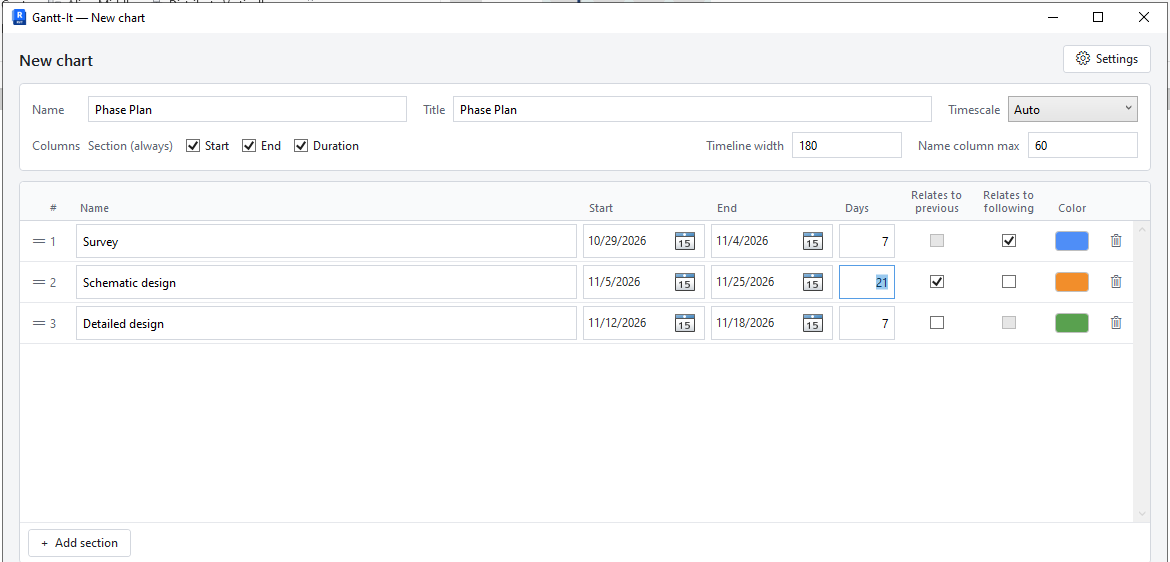
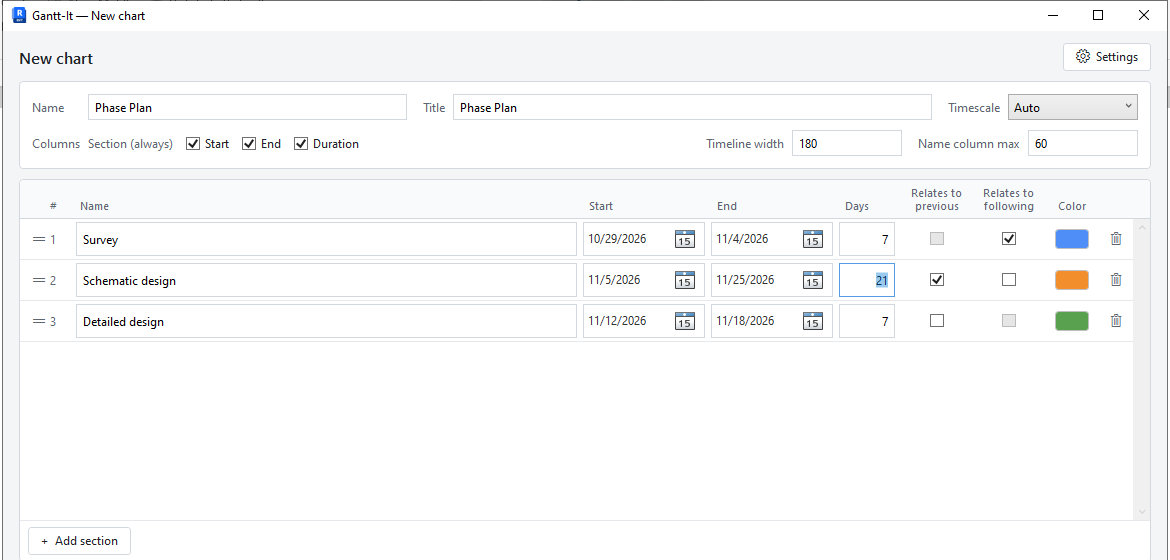
docs: review follow-ups for README and user guide
Quick start closes Gantt-It before placing on a sheet; sheet image recropped
without the debug note; ribbon strip trimmed from home/editor images; install
steps in the order Windows shows them; UI labels quoted as shown; TODOs for
images that still show test names.

diff --git a/docs/USER-GUIDE.md b/docs/USER-GUIDE.md
@@ -37,7 +37,7 @@ Each chart card has three buttons:
 - **Open view** closes Gantt-It and opens the chart's legend view in Revit.
 - **Delete** deletes the chart (see [Deleting a chart](#deleting-a-chart)).
 
-While Gantt-It is open, Revit waits for it. Close Gantt-It (with **×** or Esc) to go back to working in Revit.
+While Gantt-It is open you can't work in Revit. Close it (**×** or Esc) to get back to your model.
 
 ## Settings
 
@@ -54,13 +54,13 @@ The styles are the ones already in your project. To get a different look, create
 | Setting | What it changes on the chart |
 |---|---|
 | Title text style | The chart's title. |
-| Header text style | The column headings and the dates along the top of the timeline. |
+| Header text style | The column headings and the labels along the top of the timeline. |
 | Body text style | Section names, dates and number of days. |
 | Chart line style | The lines between rows and the grid lines of the timeline. |
 | Header line style | The lines under the headings and the outer border. |
 | Date format | How dates are written, for example `2026-12-31`, `12/31/2026`, `31/12/2026` or `31.12.2026`. Choose **Custom pattern…** to type your own, such as `d MMM yyyy`. A sample shows the result. |
 | Cell padding | The space between the text and the lines around it, in your project's units. |
-| Chart language | The language of the words drawn on the chart. See [Languages](#languages-and-dark-mode). |
+| Chart language | The language of the words drawn on the chart. See [Languages](#languages). |
 
 Two more options sit at the bottom:
 
@@ -77,7 +77,7 @@ Click **New chart** on the Home screen. The editor opens with one section to sta
 
 ![The chart editor with three sections, link tick boxes and colours](images/editor.png)
 
-<!-- TODO(screenshot): Full chart editor from the current build (dates in the chart's date format, e.g. 2026-10-29, and the live preview at the bottom), e.g. the "Phase Plan" chart: Survey, Schematic design, Detailed design, with row 1 "Relates to following" ticked. Light theme. Replace images/editor.png. -->
+<!-- TODO(screenshot): Full chart editor from the current build (dates in the chart's date format, e.g. 2026-10-29, and the live preview at the bottom), e.g. the "Phase Plan" chart: Survey, Schematic design, Detailed design, with row 1 "Relates to following" ticked. Light theme. Replace images/editor.png (also used by README step 3). -->
 
 ### Name, title and timescale
 
@@ -104,7 +104,7 @@ Click **New chart** on the Home screen. The editor opens with one section to sta
 
 Each row is one bar on the chart.
 
-1. Click **+ Add section** to add a row. It starts the day after the last section ends, lasts 7 days, and gets the next colour.
+1. Click **Add section** to add a row. It starts the day after the last section ends, lasts 7 days, and gets the next colour.
 2. Type the section's **Name**.
 3. Set its dates in any of three ways:
    - change **Start** to move the section; it keeps its length;
@@ -142,10 +142,10 @@ If something needs fixing, such as an empty name or an end date before the start
 
 ## Colours
 
-Click a section's colour swatch to choose its colour. The colour window offers:
+Click the swatch in a section's **Color** column. The **Section color** window opens. It offers:
 
 - **Palette**: twelve ready colours. New sections take them in turn.
-- **Recent**: colours you chose recently, kept until you close Revit.
+- **Recent**: colours you chose recently, kept until you close Revit (appears after your first pick).
 - **Hex**: type a colour code such as `#4F8EF7` and click **Apply**.
 - **Pick from screen**: the eyedropper button next to **Apply** (see below).
 - **More…**: opens the Windows colour window, with the full colour range.
@@ -159,7 +159,7 @@ Clicking a colour applies it and closes the window.
 Use the eyedropper to match a colour you can already see, such as a colour used on your plans.
 
 1. Before opening Gantt-It, set up Revit so the colour you want is visible on screen. Revit can't be moved or zoomed while Gantt-It is open.
-2. Open the colour window and click the eyedropper button.
+2. Open the **Section color** window and click the eyedropper button.
 3. Gantt-It steps out of the way. A magnifier follows the pointer and shows the colour code under it.
 4. Move to the colour with the mouse. For fine positioning, use the arrow keys (hold Shift to move faster).
 5. Click to pick the colour. Enter or Space also pick it.
@@ -186,6 +186,8 @@ A legend can go on as many sheets as you like, so you can put the same chart on 
 
 ![A sheet with the Gantt-It chart placed on it next to the title block](images/chart-on-sheet.png)
 
+<!-- TODO(screenshot): Recapture without the test names "GI Months" (viewport title) and "GI Self-Test Sheet" (title block), e.g. a sheet named "A101 - Programme" with the chart "North wing programme". Replace images/chart-on-sheet.png (also used by README step 5). -->
+
 The chart is drawn at a scale of 1:1, so the sizes you set are its size on paper.
 
 ## Updating a chart
@@ -210,6 +212,8 @@ Gantt-It asks you to confirm. If the chart is on sheets, it lists them: deleting
 
 ![The Delete chart window listing the two sheets the chart is placed on](images/delete-confirm.png)
 
+<!-- TODO(screenshot): Recapture with real-looking sheet names instead of the test names "A101 - GI A8 Sheet 1" / "A102 - GI A8 Sheet 2". Replace images/delete-confirm.png. -->
+
 Click **Delete** to delete the chart and its legend view, or **Cancel** to keep it.
 
 ## When the project has no legend
@@ -226,7 +230,7 @@ To fix it:
 2. In Revit, choose **View › Legends › Legend**. Any name and scale will do.
 3. Open Gantt-It again. Your chart is back in the editor, with a note saying it was restored. Click **Generate**.
 
-Your chart is kept until you close Revit.
+Your chart is kept until you close the project or Revit.
 
 You only need to do this once per project. After that, Gantt-It can copy any legend, including its own charts.
 
@@ -237,7 +241,7 @@ You only need to do this once per project. After that, Gantt-It can copy any leg
 Gantt-It speaks English, French, Spanish and German.
 
 - **Gantt-It's windows** use Revit's language. In French, Spanish or German Revit they appear in that language; in any other language they appear in English.
-- **The chart** uses the **Chart language** chosen in Settings. It sets the words drawn on the chart: column headings, month and quarter names, and the name a new chart starts with.
+- **The chart** uses the **Chart language** chosen in Settings. It sets the words drawn on the chart: column headings, month and quarter names, and the default names of new charts and sections.
 
 The chart language belongs to the project. It starts as your Revit language when the project's settings are first saved, and then stays put. So a chart doesn't change language when a colleague with a different Revit language updates it.
 
@@ -257,13 +261,13 @@ The chart preview stays white, like paper, so you see the colours as they will p
 
 **Revit asks to load Gantt-It after installing and after each upgrade.** Gantt-It is not digitally signed yet, so Revit asks each time a new version is installed. Choose **Always Load**.
 
-**A chart copied with Revit's Duplicate becomes a plain legend.** It no longer appears in Gantt-It, and Gantt-It never changes it. To make a variant of a chart, click **New chart** and build it in Gantt-It.
+**A chart copied with Revit's Duplicate becomes a plain legend.** The copy doesn't appear in Gantt-It and Gantt-It never changes it; the original chart is unaffected. To make a variant of a chart, click **New chart** and build it in Gantt-It.
 
 **A chart made with a newer version of Gantt-It is read-only.** Its card says so, and **Edit** and **Delete** are off. Install the newer Gantt-It to change it. You can still open it, or delete its legend view by hand in Revit.
 
 **In a shared (workshared) project, someone else may be editing the chart or the settings.** Gantt-It then tells you who, and changes nothing. Ask them to synchronise and give up the element, then try again.
 
-**Gantt-It tidies up its own fill types.** Each bar colour uses a fill type named `Gantt-It Fill #RRGGBB`. When a colour is no longer used anywhere in the project, Gantt-It removes its fill type. A fill type still in use is always kept.
+**Gantt-It tidies up its own fill types.** Each bar colour uses a fill type named like `Gantt-It Fill #4F8EF7`. When a colour is no longer used anywhere in the project, Gantt-It removes its fill type. A fill type still in use is always kept.
 
 **Every action can be undone.** Generate, Update, Delete, saving Settings and Regenerate all charts are each one step in Revit's Undo list, named after the action (for example "Gantt-It: Update Project Schedule"). Close Gantt-It, then use Revit's **Undo**.
 

diff --git a/README.md b/README.md
@@ -21,13 +21,12 @@
 ## Install
 
 1. Download `GanttIt-<version>.msi` from the [latest release](https://github.com/jedbjorn/gantt-it/releases/latest).
-2. Close Revit, then run the file. One installer covers Revit 2026 and 2027. It installs for you only and needs no administrator rights.
-3. If Windows says "Windows protected your PC", choose **More info**, then **Run anyway**.
-4. Start Revit. Revit asks whether to load Gantt-It: choose **Always Load**.
+2. Close Revit, then run the file.
+3. If Windows says "Windows protected your PC", choose **More info**, then **Run anyway**. Windows asks this because Gantt-It is not digitally signed yet. That is expected.
+4. Accept the licence and click **Install**. One installer covers Revit 2026 and 2027. It installs for you only and needs no administrator rights.
+5. Start Revit. Revit asks whether to load Gantt-It, for the same reason: choose **Always Load**.
 
 Gantt-It now appears on the **Add-Ins** tab.
-
-Windows and Revit ask these questions because Gantt-It is not digitally signed yet. That is expected.
 
 **Upgrade:** close Revit, then run the newer installer. It replaces the old version. Revit asks again whether to load Gantt-It on the next start: choose **Always Load** again.
 
@@ -36,7 +35,7 @@ Windows and Revit ask these questions because Gantt-It is not digitally signed y
 - Windows 11: **Settings › Apps › Installed apps**, find **Gantt-It**, open its **⋯** menu and choose **Uninstall**.
 - Windows 10: **Settings › Apps › Apps & features**, select **Gantt-It** and choose **Uninstall**.
 
-Charts you already made stay in your projects as ordinary legend views.
+Charts you already made stay in your projects as ordinary legend views. Reinstall Gantt-It to edit them again.
 
 ## Quick start
 
@@ -50,9 +49,9 @@ Charts you already made stay in your projects as ordinary legend views.
    ![The chart editor: name, title and timescale at the top, then three sections with dates, days, link tick boxes and colour swatches](docs/images/editor.png)
 
 4. Click **Generate**. Gantt-It creates a legend view holding your chart.
-5. Open a sheet and drag the chart from **Legends** in the Project Browser onto it, as you would any legend.
+5. Close Gantt-It. Open a sheet and drag the chart from **Legends** in the Project Browser onto it, as you would any legend.
 
-   ![A sheet with the Gantt-It chart placed on it next to the title block](docs/images/chart-on-sheet.png)
+   ![A sheet with the Gantt-It chart placed on it, next to the title block](docs/images/chart-on-sheet.png)
 
 To change the chart later, open Gantt-It again, click **Edit** on its card, make your changes and click **Update**.
 
